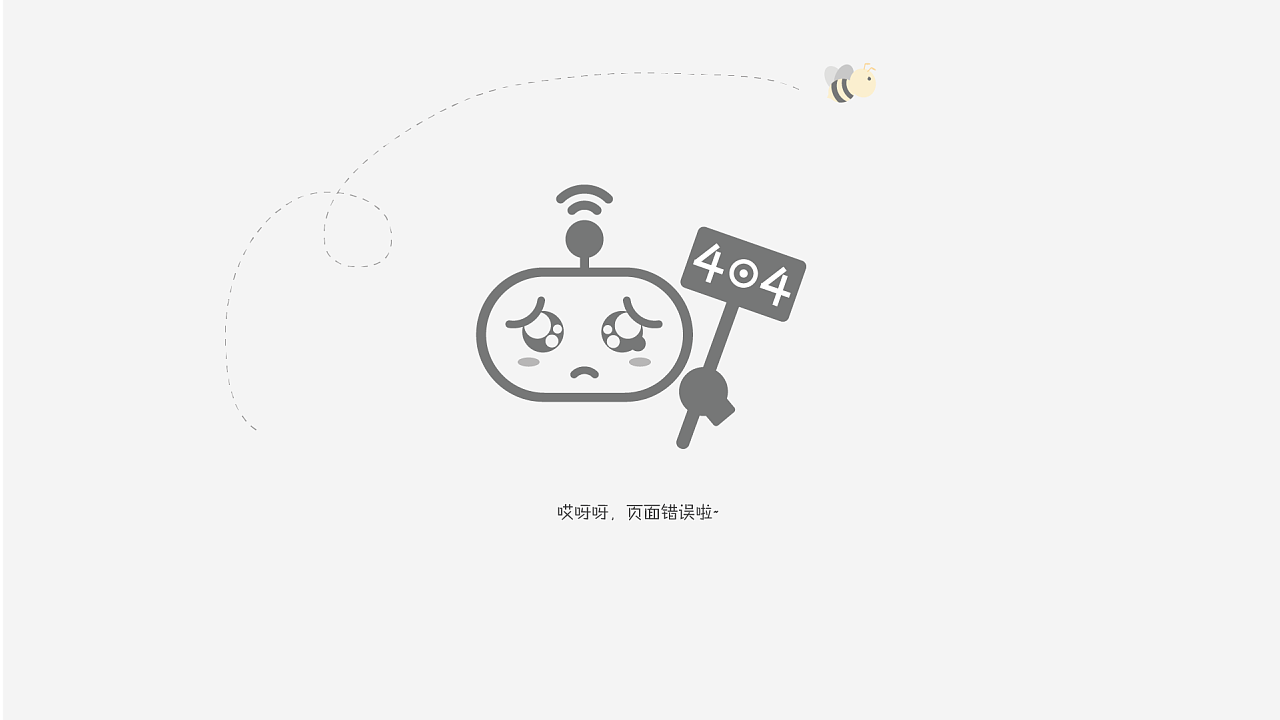
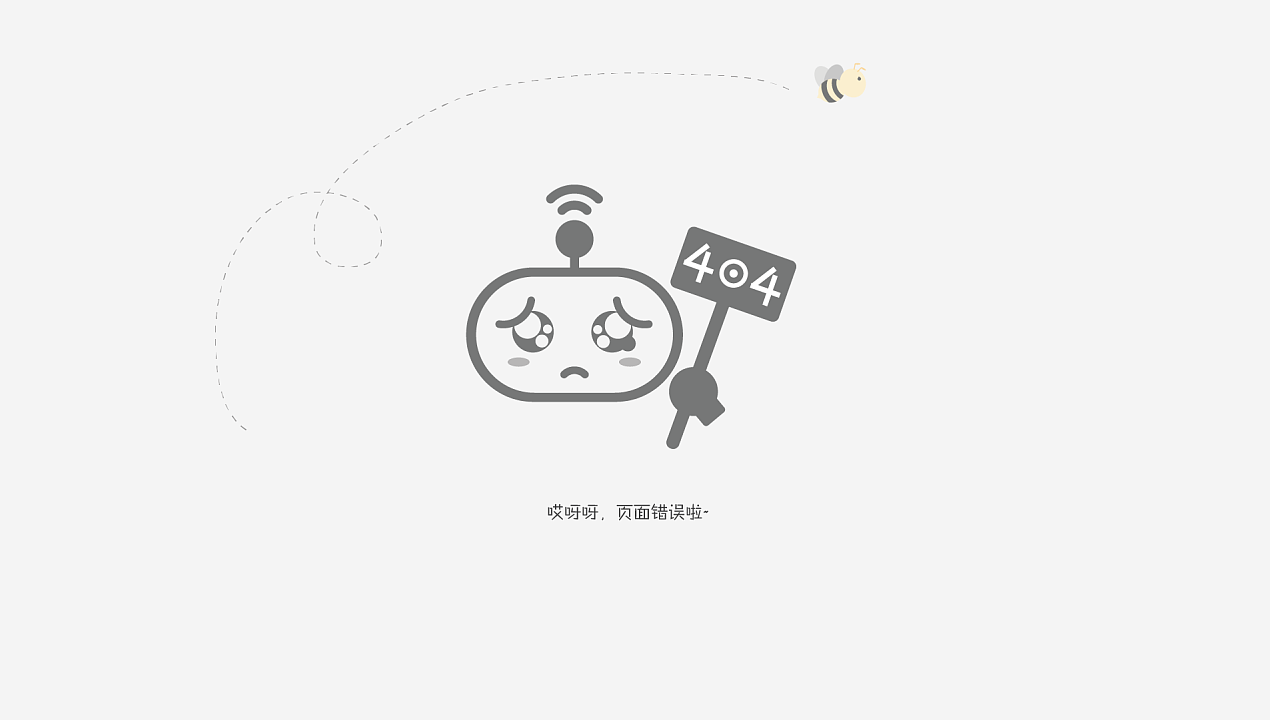
0323-4

diff --git a/404.html b/404.html
@@ -1,43 +1,92 @@
 <!DOCTYPE html>
 <html>
-<head>
-<meta charset="utf-8" />
-<title>404</title>
-<style>
-	/*-------------public--------------*/
-html{ width:100%; overFlow-x: hidden; OVERFLOW: scroll; }
-body{ margin:0px; padding:0px; background:#fff;}
-ul{ list-style:none; margin:0px; padding:0px;}
-.fl{ float:left;}
-.fr{ float:right;}
-.cl{ clear:both;}
-*{ font-family:"微软雅黑"; font-size:12px; color:#5f5f5f;}
-a{font-family:"微软雅黑"; font-size:12px; color:#5f5f5f; text-decoration:none;}
-a:hover{ color:#f00; border:0px;}
-img{ border:0px;}
 
-.fh{ width: 728px; height: auto; text-align: center; margin: 0 auto; margin-top: 70px;}
-</style>
-</head>
-<body style="background-color:#f1f4f8;">
+	<head>
+		<meta charset="utf-8" />
+		<title>404</title>
+		<style>
+			/*-------------public--------------*/
+			
+			html {
+				width: 100%;
+				overFlow-x: hidden;
+				OVERFLOW: scroll;
+			}
+			body {
+				margin: 0px;
+				padding: 0px;
+				height: 100%;
+				background: #f4f4f4;
+			}
+			
+			ul {
+				list-style: none;
+				margin: 0px;
+				padding: 0px;
+			}
+			
+			.fl {
+				float: left;
+			}
+			
+			.fr {
+				float: right;
+			}
+			
+			.cl {
+				clear: both;
+			}
+			
+			* {
+				margin: 0;
+				padding: 0;
+			}
+			
+			
+			img {
+				position: relative;
+				display: block;
+			}
+			a{
+				display: block;
+			}
+			.fh {
+				position: relative;
+				width: 60%;
+				text-align: center;
+				margin: 0 auto;
+				font-size: 16px;
+				line-height: 30px;
+				font-family: "微软雅黑";
+				padding-top: 70px;
+				color: #777777;
+			}
+		</style>
+	</head>
 
-<div class="fh"><a href="index.html"><img src="Public/Home/Images/404_6.png" width="100%"></a></div>
-<div class="fh"><b id="num">5</b>秒后跳转到首页</div>
+	<body>
 
-<!--脚本开始--> 
-<script> 
-function countDown(secs){ 
-	if(--secs>0) {
-		document.getElementById("num").innerText=secs;
-		setTimeout(function(){countDown(secs)},1000);  
-	}
-	else{
-		window.location.href="index.html";
-	} 
-}
-countDown(5); 
-</script> 
-<!--脚本结束--> 
+		<div class="fh">
+			<a href="index.html"><img src="Public/Home/Images/404_6.png" width="100%"></a>
+		</div>
+		<div class="fh"><b id="num">5</b>秒后跳转到首页</div>
 
-</body>
+		<!--脚本开始-->
+		<script>
+			function countDown(secs) {
+				if(--secs > 0) {
+					document.getElementById("num").innerText = secs;
+					setTimeout(function() {
+						countDown(secs)
+					}, 1000);
+				} else {
+					window.location.href = "index.html";
+				}
+			}
+			countDown(5);
+		</script>
+		<!--脚本结束-->
+
+	</body>
+
 </html>
